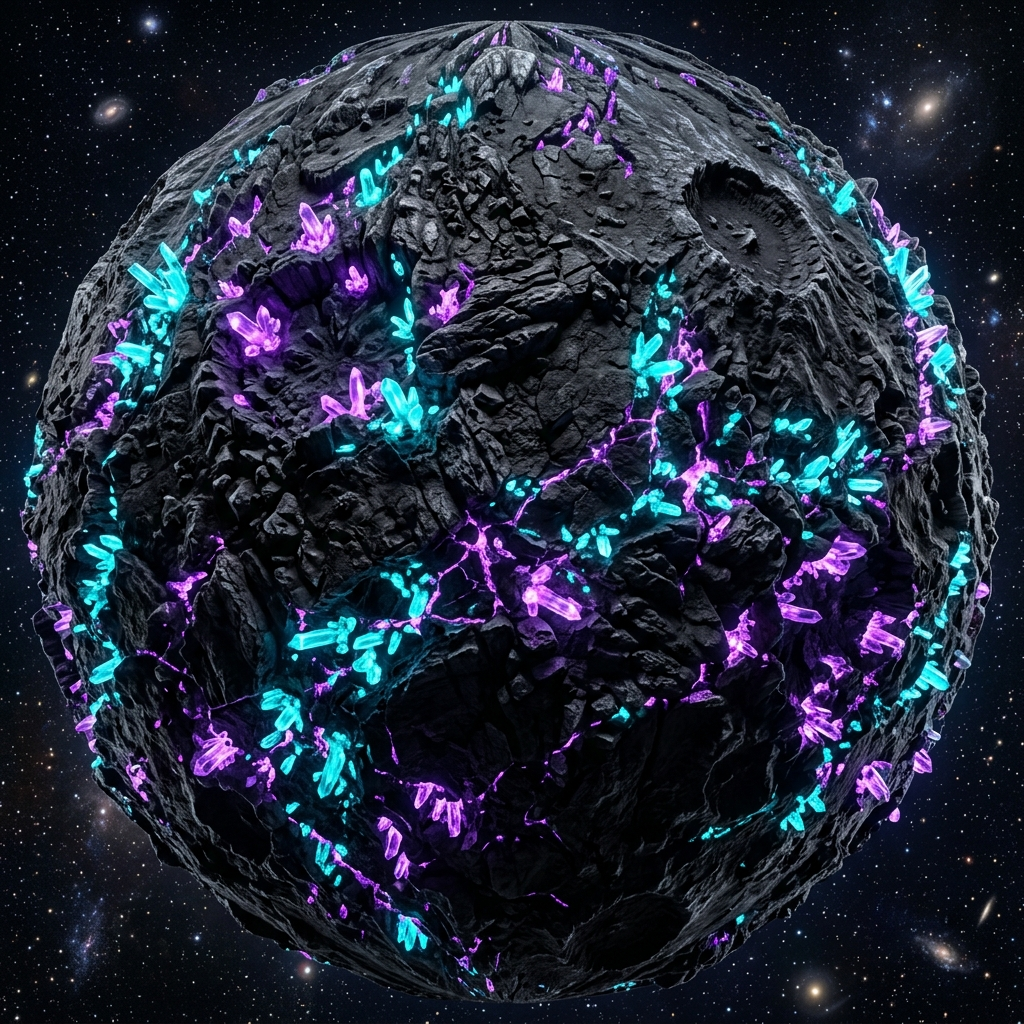
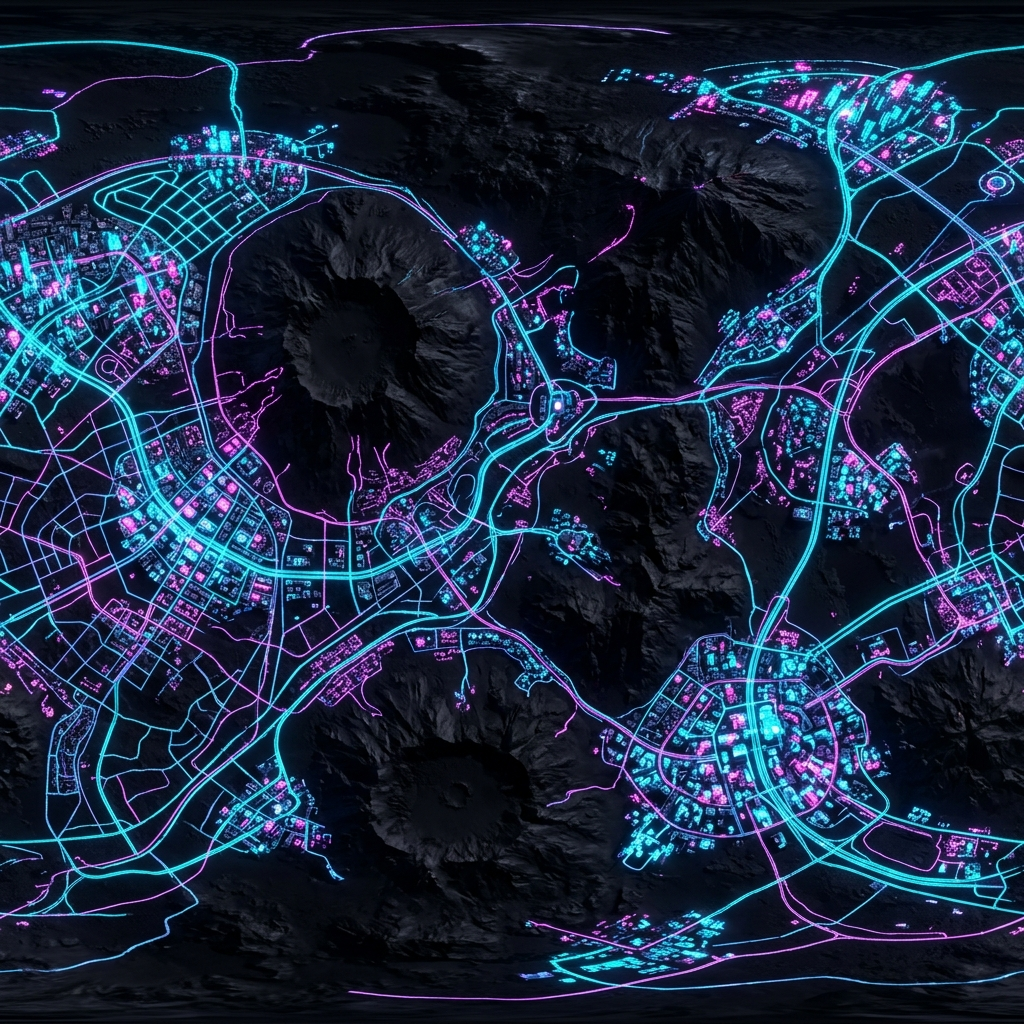
Acercar Estrella Omega para evitar la niebla y re-generar Azkena RF con más luces de neón

diff --git a/index.html b/index.html
@@ -1604,10 +1604,11 @@
         // Estrella Omega (fija en el fondo)
         let omegaDiscovered = false;
         const omegaStarGroup = new THREE.Group();
-        omegaStarGroup.position.set(-600, 350, -2500); // Fija al fondo del espacio
+        // La acercamos un poco (z = -1200) para que la niebla negra no la oculte
+        omegaStarGroup.position.set(200, 150, -1200); 
 
-        // Núcleo de la estrella (pequeño y brillante)
-        const starGeo = new THREE.SphereGeometry(6, 16, 16);
+        // Núcleo de la estrella (más grande para que se vea sin hitbox extra)
+        const starGeo = new THREE.SphereGeometry(15, 16, 16);
         const starMat = new THREE.MeshBasicMaterial({ color: 0x00ffff });
         const starMesh = new THREE.Mesh(starGeo, starMat);
         omegaStarGroup.add(starMesh);
@@ -1622,16 +1623,10 @@
             const ringGeo = new THREE.RingGeometry(0.1, 1, 32);
             const ringMat = new THREE.MeshBasicMaterial({ color: 0x00ffff, transparent: true, opacity: 0, side: THREE.DoubleSide });
             const ring = new THREE.Mesh(ringGeo, ringMat);
-            ring.userData = { phase: i * (Math.PI * 2 / 3) }; // Desfasaje entre los 3 anillos
+            ring.userData = { phase: i * (Math.PI * 2 / 3) }; 
             omegaStarGroup.add(ring);
             rings.push(ring);
         }
-
-        // Hitbox grande invisible para facilitar el clic/hover
-        const hitBoxGeo = new THREE.SphereGeometry(80, 8, 8);
-        const hitBoxMat = new THREE.MeshBasicMaterial({ visible: false });
-        const hitBoxMesh = new THREE.Mesh(hitBoxGeo, hitBoxMat);
-        omegaStarGroup.add(hitBoxMesh);
 
         scene.add(omegaStarGroup);
 